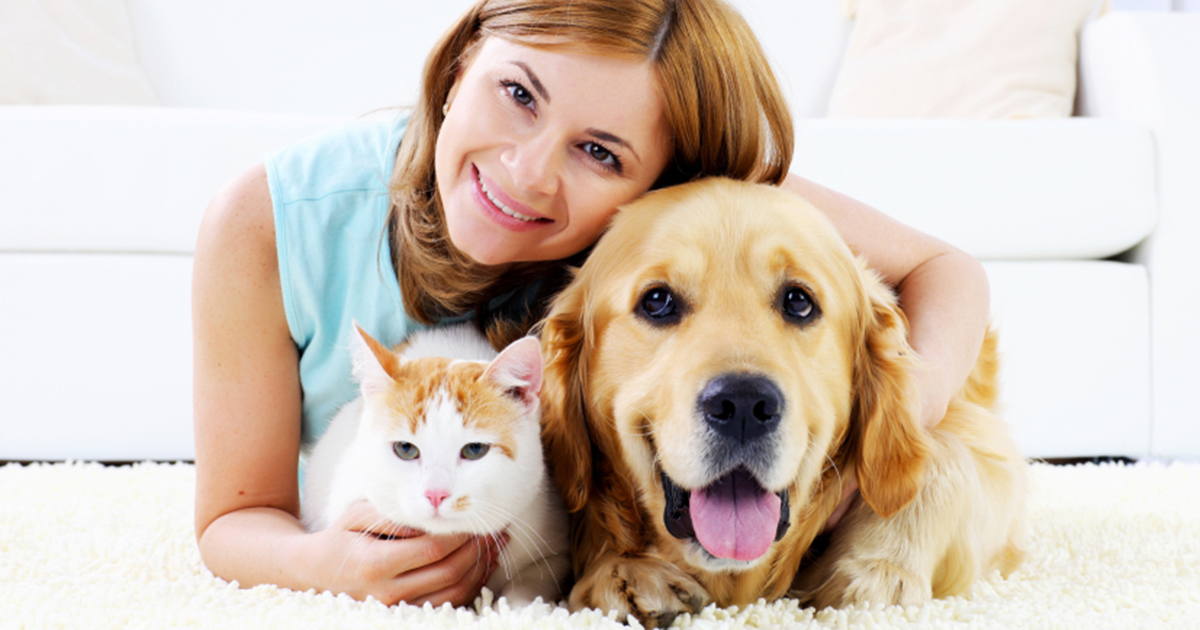
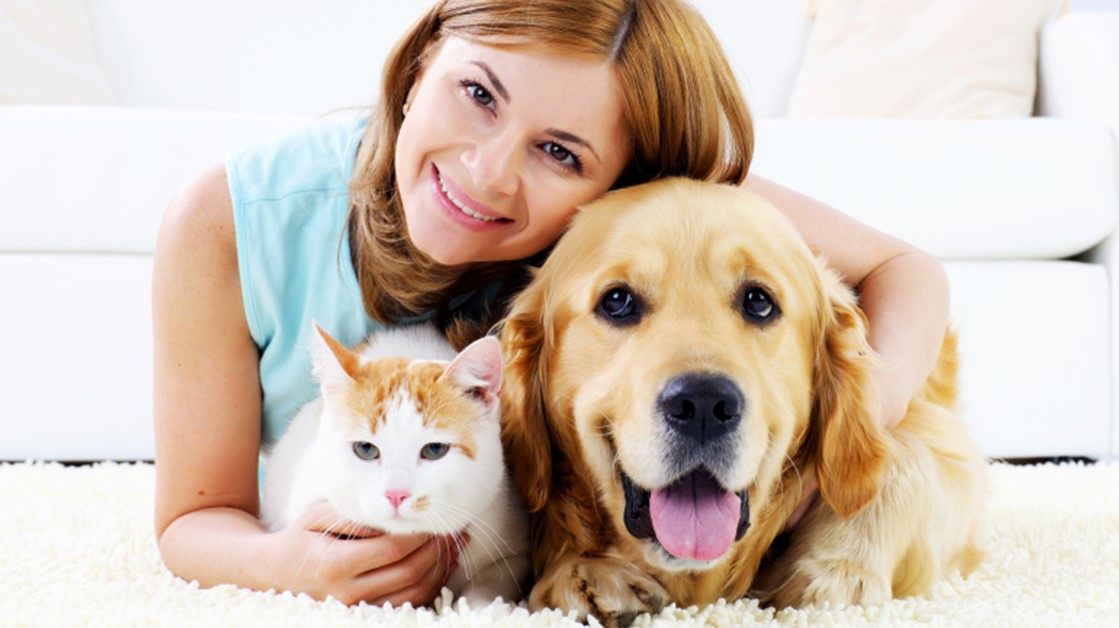
carousel imgs

diff --git a/WebProject-mpsss/src/app/carousel/second.component.html b/WebProject-mpsss/src/app/carousel/second.component.html
@@ -1,0 +1,67 @@
+
+<h2>Let's get started. Choose an option.</h2> 
+
+<ngb-accordion #acc="ngbAccordion" [closeOthers]="true" >
+  <ngb-panel id="static-1" title="I need a caregiver">
+    <ng-template ngbPanelContent>
+        <div id="QuickSearch" class="container-fluid" style="padding-top:70px;padding-bottom:70px;margin: 10px">
+            <h2>Who is going to need care?</h2>
+            <figure style="display: inline-block">
+            <a href="https://www.zomato.com/boston/breakfast"><img class="card-img-top" src=".\assets\images\baby.png" alt="Card image" style="height: 250px; width: 250px; padding: 50px;"></a>
+            <figcaption style="text-align: center">My Kids</figcaption>
+          
+          </figure>
+          <figure style="display: inline-block">
+            <a href="https://www.zomato.com/boston/lunch"><img class="card-img-top" src=".\assets\images\family.png" alt="Card image" style="height: 250px; width: 250px; padding: 50px;"></a>
+            <figcaption style="text-align: center">My Parents</figcaption>
+          
+          </figure>
+          <figure style="display: inline-block">
+           <a href="https://www.zomato.com/boston/take-away"><img class="card-img-top" src=".\assets\images\dog.png" alt="Sunil image" style="height: 250px; width: 250px; padding: 50px;"></a>
+            <figcaption style="text-align: center">My Pets</figcaption>
+          
+          </figure>
+          <figure style="display: inline-block">
+            <a href="https://www.zomato.com/boston/delivery"><img class="card-img-top" src=".\assets\images\mansion.png" alt="Card image" style="height: 250px; width: 250px; padding: 50px;"></a>
+             <figcaption style="text-align: center">My Home</figcaption>
+           
+           </figure>
+          </div>
+         
+    </ng-template>
+  </ngb-panel>
+  <ngb-panel id="static-2" title="I want a care job">
+    
+    <ng-template ngbPanelContent>
+        <div id="QuickSearch" class="container-fluid" style="padding-top:70px;padding-bottom:70px;margin: 10px">
+            <h2>What kind of services do you offer?</h2>
+            <figure style="display: inline-block">
+            <a href="https://www.zomato.com/boston/breakfast"><img class="card-img-top" src=".\assets\images\instruction.png" alt="Card image" style="height: 250px; width: 250px; padding: 50px;"></a>
+            <figcaption style="text-align: center">Tutor & Private lessons</figcaption>
+          
+          </figure>
+          <figure style="display: inline-block">
+            <a href="https://www.zomato.com/boston/lunch"><img class="card-img-top" src=".\assets\images\elderly.png" alt="Card image" style="height: 250px; width: 250px; padding: 50px;"></a>
+            <figcaption style="text-align: center">Senior care & Nursing</figcaption>
+          
+          </figure>
+          <figure style="display: inline-block">
+           <a href="https://www.zomato.com/boston/take-away"><img class="card-img-top" src=".\assets\images\veterinary.png" alt="Sunil image" style="height: 250px; width: 250px; padding: 50px;"></a>
+            <figcaption style="text-align: center">Pet Care</figcaption>
+          
+          </figure>
+          <figure style="display: inline-block">
+            <a href="https://www.zomato.com/boston/delivery"><img class="card-img-top" src=".\assets\images\cleaner.png" alt="Card image" style="height: 250px; width: 250px; padding: 50px;"></a>
+             <figcaption style="text-align: center">House Keeping</figcaption>
+           
+           </figure>
+           <figure style="display: inline-block">
+              <a href="https://www.zomato.com/boston/delivery"><img class="card-img-top" src=".\assets\images\babycare.png" alt="Card image" style="height: 250px; width: 250px; padding: 50px;"></a>
+               <figcaption style="text-align: center">Baby sitter</figcaption>
+             
+             </figure>
+          </div>
+    </ng-template>
+  </ngb-panel>
+  
+</ngb-accordion>

diff --git a/WebProject-mpsss/src/app/carousel/carousel.component.html b/WebProject-mpsss/src/app/carousel/carousel.component.html
@@ -35,21 +35,21 @@
 <div class="jumbotron text-center">
 <ngb-carousel *ngIf="images">
   <ng-template ngbSlide>
-    <img [src]="images[0]" alt="Random first slide">
+    <img src=".\assets\images\babywall.jpg" alt="Random first slide">
     <div class="carousel-caption">
       <h3>First slide label</h3>
       <p>Nulla vitae elit libero, a pharetra augue mollis interdum.</p>
     </div>
   </ng-template>
   <ng-template ngbSlide>
-    <img [src]="images[1]" alt="Random second slide">
+    <img src=".\assets\images\animal.jpg" alt="Random second slide">
     <div class="carousel-caption">
       <h3>Second slide label</h3>
       <p>Lorem ipsum dolor sit amet, consectetur adipiscing elit.</p>
     </div>
   </ng-template>
   <ng-template ngbSlide>
-    <img [src]="images[2]" alt="Random third slide">
+    <img src=".\assets\images\care.jpg" alt="Random third slide">
     <div class="carousel-caption">
       <h3>Third slide label</h3>
       <p>Praesent commodo cursus magna, vel scelerisque nisl consectetur.</p>
